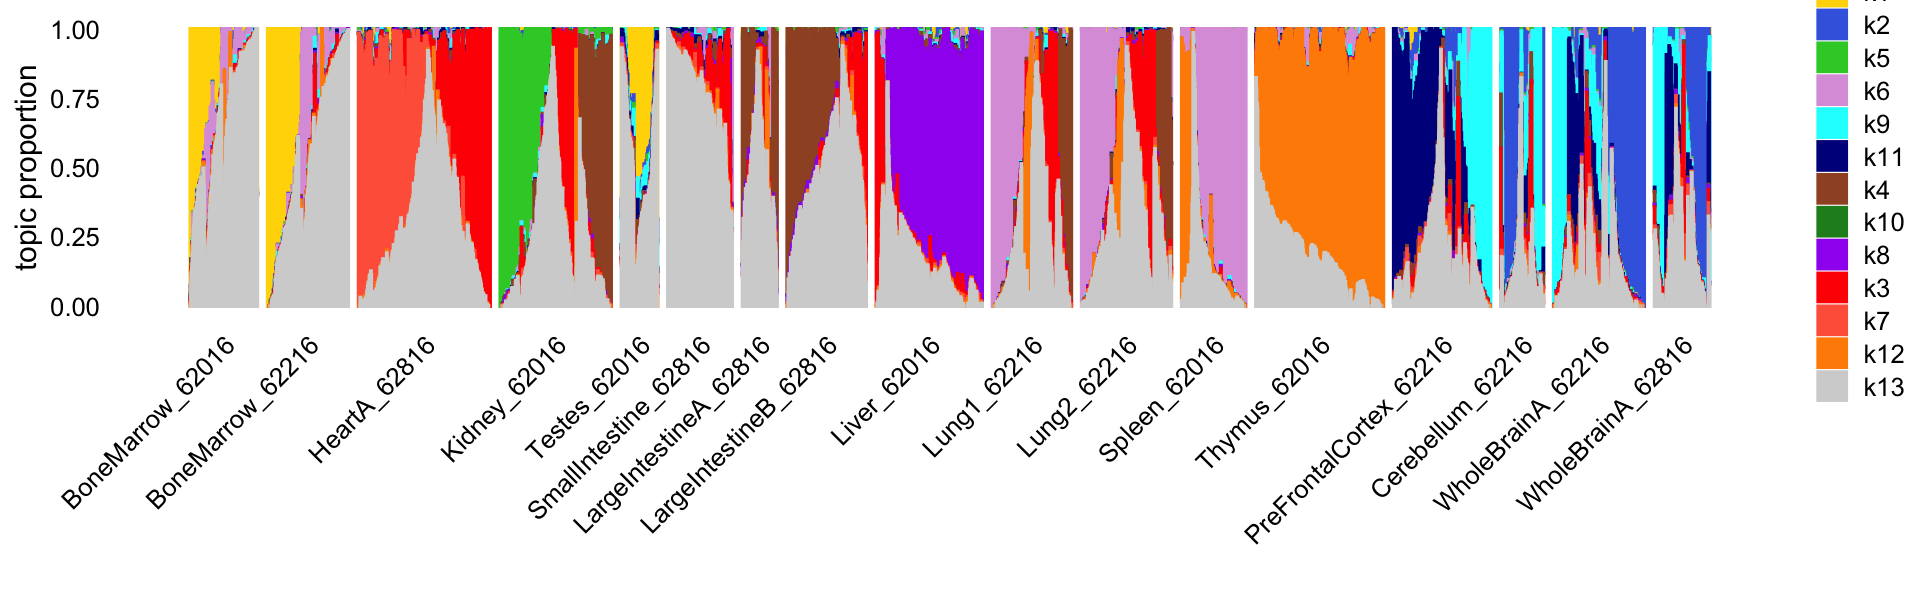
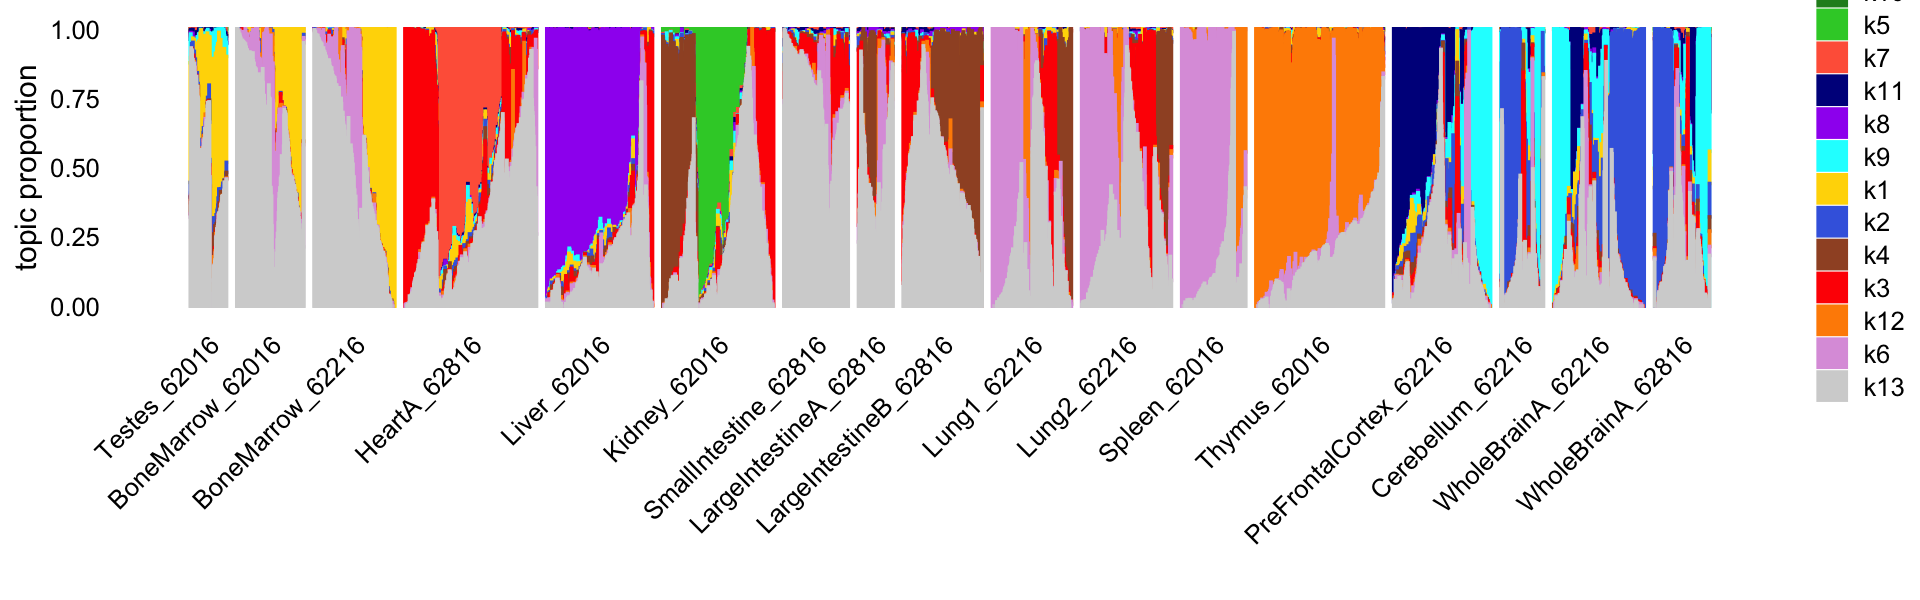
Revised the structure plots in the cusanovich2018_k13 analysis.

diff --git a/docs/cusanovich2018_k13.html b/docs/cusanovich2018_k13.html
@@ -507,15 +507,15 @@ project makes it easier to run your code on other machines.</p>
 <div class="panel panel-default">
 <div class="panel-heading">
 <p class="panel-title">
-<a data-toggle="collapse" data-parent="#workflowr-checks" href="#strongRepositoryversionstrongahrefhttpsgithubcomstephenslabscATACseqtopicstree559104e6ec2e0e27caa3fef5708c8e111b255b2dtargetblank559104ea">
+<a data-toggle="collapse" data-parent="#workflowr-checks" href="#strongRepositoryversionstrongahrefhttpsgithubcomstephenslabscATACseqtopicstreebbff4dabc7c14435842444926e7b254d24d9bb92targetblankbbff4daa">
 <span class="glyphicon glyphicon-ok text-success"
 aria-hidden="true"></span> <strong>Repository version:</strong>
-<a href="https://github.com/stephenslab/scATACseq-topics/tree/559104e6ec2e0e27caa3fef5708c8e111b255b2d" target="_blank">559104e</a>
+<a href="https://github.com/stephenslab/scATACseq-topics/tree/bbff4dabc7c14435842444926e7b254d24d9bb92" target="_blank">bbff4da</a>
 </a>
 </p>
 </div>
 <div
[2 lines of base64/hex data omitted]
 class="panel-collapse collapse">
 <div class="panel-body">
 <p>
@@ -525,7 +525,7 @@ reproducibility.
 </p>
 <p>
 The results in this page were generated with repository version
-<a href="https://github.com/stephenslab/scATACseq-topics/tree/559104e6ec2e0e27caa3fef5708c8e111b255b2d" target="_blank">559104e</a>.
+<a href="https://github.com/stephenslab/scATACseq-topics/tree/bbff4dabc7c14435842444926e7b254d24d9bb92" target="_blank">bbff4da</a>.
 See the <em>Past versions</em> tab to see a history of the changes made
 to the R Markdown and HTML files.
 </p>
@@ -541,12 +541,14 @@ were generated:
 <pre><code>
 Ignored files:
     Ignored:    .DS_Store
+    Ignored:    analysis/.DS_Store
     Ignored:    data/.DS_Store
     Ignored:    data/Buenrostro_2018/
     Ignored:    data/Cusanovich_2018/processed_data/Cusanovich_2018_Kidney.RData
     Ignored:    output/Buenrostro_2018/binarized/filtered_peaks/de-buenrostro2018-k=10-noshrink.RData
     Ignored:    output/Buenrostro_2018/binarized/filtered_peaks/fit-Buenrostro2018-binarized-filtered-scd-ex-k=10.rds
     Ignored:    output/Buenrostro_2018/binarized/filtered_peaks/fit-Buenrostro2018-binarized-filtered-scd-ex-k=8.rds
+    Ignored:    output/Cusanovich_2018/binom-fit-cusanovich2018-k=13.RData
     Ignored:    output/Cusanovich_2018/fit-Cusanovich2018-scd-ex-k=13.rds
     Ignored:    output/Cusanovich_2018/tissues/.DS_Store
     Ignored:    output/Cusanovich_2018/tissues/de-cusanovich2018-kidney-k=10-noshrink.RData
@@ -558,7 +560,6 @@ Untracked files:
     Untracked:  analysis/fit-Buenrostro2018-binarized-scd-ex-k=10.rds
     Untracked:  data/Buenrostro_2018_binarized.RData
     Untracked:  output/Buenrostro_2018/binarized/filtered_peaks/Buenrostro_2018_binarized_filtered.RData
-    Untracked:  output/Cusanovich_2018/binom-fit-cusanovich2018-k=13.RData
     Untracked:  plots/
     Untracked:  scripts/fit-buenrostro-2018-k=8.rds
 
@@ -609,6 +610,40 @@ Message
 </tr>
 </thead>
 <tbody>
+<tr>
+<td>
+Rmd
+</td>
+<td>
+<a href="https://github.com/stephenslab/scATACseq-topics/blob/bbff4dabc7c14435842444926e7b254d24d9bb92/analysis/cusanovich2018_k13.Rmd" target="_blank">bbff4da</a>
+</td>
+<td>
+Peter Carbonetto
+</td>
+<td>
+2023-05-10
+</td>
+<td>
+wflow_publish("analysis/cusanovich2018_k13.Rmd", verbose = TRUE)
+</td>
+</tr>
+<tr>
+<td>
+html
+</td>
+<td>
+<a href="https://rawcdn.githack.com/stephenslab/scATACseq-topics/fdf6da0a4011eabbc4e9f6aed79089bc9991c4a8/docs/cusanovich2018_k13.html" target="_blank">fdf6da0</a>
+</td>
+<td>
+Peter Carbonetto
+</td>
+<td>
+2023-05-10
+</td>
+<td>
+Regenerated cusanovich2018_k13 plots using the binomial topic model.
+</td>
+</tr>
 <tr>
 <td>
 Rmd
@@ -991,20 +1026,22 @@ library(fastTopics)
 library(ggplot2)</code></pre>
 <p>Load the sample meta-data:</p>
 <pre class="r"><code>tissues &lt;-
-  c(&quot;BoneMarrow_62016&quot;,&quot;BoneMarrow_62216&quot;,
-  &quot;HeartA_62816&quot;,&quot;Kidney_62016&quot;,&quot;Testes_62016&quot;,&quot;SmallIntestine_62816&quot;,
-  &quot;LargeIntestineA_62816&quot;,
-  &quot;LargeIntestineB_62816&quot;,&quot;Liver_62016&quot;,
-  &quot;Lung1_62216&quot;,&quot;Lung2_62216&quot;,
-  &quot;Spleen_62016&quot;,
-  &quot;Thymus_62016&quot;,&quot;PreFrontalCortex_62216&quot;,
-  &quot;Cerebellum_62216&quot;,&quot;WholeBrainA_62216&quot;,&quot;WholeBrainA_62816&quot;)
+  c(&quot;Testes_62016&quot;,&quot;BoneMarrow_62016&quot;,&quot;BoneMarrow_62216&quot;,&quot;HeartA_62816&quot;,
+    &quot;Liver_62016&quot;,&quot;Kidney_62016&quot;,&quot;SmallIntestine_62816&quot;,&quot;LargeIntestineA_62816&quot;,
+    &quot;LargeIntestineB_62816&quot;,&quot;Lung1_62216&quot;,&quot;Lung2_62216&quot;,
+    &quot;Spleen_62016&quot;,&quot;Thymus_62016&quot;,&quot;PreFrontalCortex_62216&quot;,&quot;Cerebellum_62216&quot;,
+    &quot;WholeBrainA_62216&quot;,&quot;WholeBrainA_62816&quot;)
 load(&quot;data/Cusanovich_2018/processed_data/Cusanovich_2018_metadata_only.RData&quot;)
 samples &lt;- transform(samples,
                      tissue.replicate = factor(tissue.replicate,tissues))</code></pre>
 <p>Next load the <span class="math inline">\(k = 13\)</span> binomial
 topic model fit.</p>
-<pre class="r"><code>load(&quot;output/Cusanovich_2018/binom-fit-cusanovich2018-k=13.RData&quot;)</code></pre>
+<pre class="r"><code>load(&quot;output/Cusanovich_2018/binom-fit-cusanovich2018-k=13.RData&quot;)
+round(colSums(fit_binom$L),digits = 2)
+#       k1       k2       k3       k4       k5       k6       k7       k8 
+#  5138.54  5368.10  6126.67  5759.31  2519.55  8669.73  3225.29  4648.47 
+#       k9      k10      k11      k12      k13 
+#  4943.79     0.58  3699.20  7836.81 23236.96</code></pre>
 <p>This Structure plot shows the cells arranged by tissue. Note that
 replicates were collected for four of the tissues (bone marrow, lung,
 small intestine, whole brain) in a second mouse.</p>
@@ -1012,7 +1049,7 @@ small intestine, whole brain) in a second mouse.</p>
 topic_colors &lt;- c(&quot;gold&quot;,&quot;royalblue&quot;,&quot;red&quot;,&quot;sienna&quot;,&quot;limegreen&quot;,
                   &quot;plum&quot;,&quot;tomato&quot;,&quot;purple&quot;,&quot;cyan&quot;,&quot;forestgreen&quot;,
                   &quot;darkblue&quot;,&quot;darkorange&quot;,&quot;lightgray&quot;)
-topics &lt;- c(1,2,5,6,9,11,4,10,8,3,7,12,13)
+topics &lt;- c(10,5,7,11,8,9,1,2,4,3,12,6,13)
 p1 &lt;- structure_plot(fit_binom,grouping = samples$tissue.replicate,gap = 30,
                      n = 4000,perplexity = 30,colors = topic_colors,
                      topics = topics,verbose = FALSE)
@@ -1040,6 +1077,17 @@ Date
 </tr>
 </thead>
 <tbody>
+<tr>
+<td>
+<a href="https://github.com/stephenslab/scATACseq-topics/blob/fdf6da0a4011eabbc4e9f6aed79089bc9991c4a8/docs/figure/cusanovich2018_k13.Rmd/structure-plot-1-1.png" target="_blank">fdf6da0</a>
+</td>
+<td>
+Peter Carbonetto
+</td>
+<td>
+2023-05-10
+</td>
+</tr>
 <tr>
 <td>
 <a href="https://github.com/stephenslab/scATACseq-topics/blob/05361f0db6dcc034c12fe67e5622b40e0f9cd128/docs/figure/cusanovich2018_k13.Rmd/structure-plot-1-1.png" target="_blank">05361f0</a>
@@ -1094,12 +1142,12 @@ topics (e.g., thymus), and similar tissues (e.g., small and large
 intenstine) share topics.</p>
 <pre class="r"><code>table(samples$tissue.replicate)
 # 
-#       BoneMarrow_62016       BoneMarrow_62216           HeartA_62816 
-#                   4033                   4370                   7650 
-#           Kidney_62016           Testes_62016   SmallIntestine_62816 
-#                   6431                   2723                   4077 
-#  LargeIntestineA_62816  LargeIntestineB_62816            Liver_62016 
-#                   2281                   4805                   6167 
+#           Testes_62016       BoneMarrow_62016       BoneMarrow_62216 
+#                   2723                   4033                   4370 
+#           HeartA_62816            Liver_62016           Kidney_62016 
+#                   7650                   6167                   6431 
+#   SmallIntestine_62816  LargeIntestineA_62816  LargeIntestineB_62816 
+#                   4077                   2281                   4805 
 #            Lung1_62216            Lung2_62216           Spleen_62016 
 #                   5122                   4874                   4020 
 #           Thymus_62016 PreFrontalCortex_62216       Cerebellum_62216 
@@ -1124,12 +1172,12 @@ implemented in Seurat to identify these clusters).</p>
     &quot;T cells&quot;,
     &quot;B cells&quot;,
     &quot;Other immune cells&quot;,
+    &quot;Erythroblasts&quot;,
+    &quot;Sperm&quot;,
     &quot;Proximal tubule&quot;,
     &quot;cluster 18&quot;,
     &quot;Pneumocytes&quot;,
     &quot;Enterocytes&quot;,
-    &quot;Erythroblasts&quot;,
-    &quot;Sperm&quot;,
     &quot;Hematopoietic progenitors&quot;,
     &quot;Collisions&quot;,
     &quot;Unknown&quot;)
@@ -1162,7 +1210,8 @@ samples &lt;- transform(samples,
                      cell_label = factor(x,cell_types))
 set.seed(1)
 p2 &lt;- structure_plot(fit_binom,grouping = samples$cell_label,gap = 30,n = 4000,
-                     perplexity = 30,colors = topic_colors,verbose = FALSE)
+                     perplexity = 30,topics = topics,colors = topic_colors,
+                     verbose = FALSE)
 print(p2)</code></pre>
 <p><img src="figure/cusanovich2018_k13.Rmd/structure-plot-2-1.png" width="960" style="display: block; margin: auto;" /></p>
 <p>
@@ -1187,6 +1236,17 @@ Date
 </tr>
 </thead>
 <tbody>
+<tr>
+<td>
+<a href="https://github.com/stephenslab/scATACseq-topics/blob/fdf6da0a4011eabbc4e9f6aed79089bc9991c4a8/docs/figure/cusanovich2018_k13.Rmd/structure-plot-2-1.png" target="_blank">fdf6da0</a>
+</td>
+<td>
+Peter Carbonetto
+</td>
+<td>
+2023-05-10
+</td>
+</tr>
 <tr>
 <td>
 <a href="https://github.com/stephenslab/scATACseq-topics/blob/5bcab84198a424042e429e4216819136fb3f780c/docs/figure/cusanovich2018_k13.Rmd/structure-plot-2-1.png" target="_blank">5bcab84</a>
@@ -1236,10 +1296,10 @@ identified by the community detection algorithm.</p>
 #                      7219                       320                      4099 
 #                   T cells                   B cells        Other immune cells 
 #                      9461                      6843                      4144 
-#           Proximal tubule                cluster 18               Pneumocytes 
-#                      3164                      1804                      1779 
-#               Enterocytes             Erythroblasts                     Sperm 
-#                      4783                      2811                      2089 
+#             Erythroblasts                     Sperm           Proximal tubule 
+#                      2811                      2089                      3164 
+#                cluster 18               Pneumocytes               Enterocytes 
+#                      1804                      1779                      4783 
 # Hematopoietic progenitors                Collisions                   Unknown 
 #                      3425                      1218                     10029</code></pre>
 <br>
